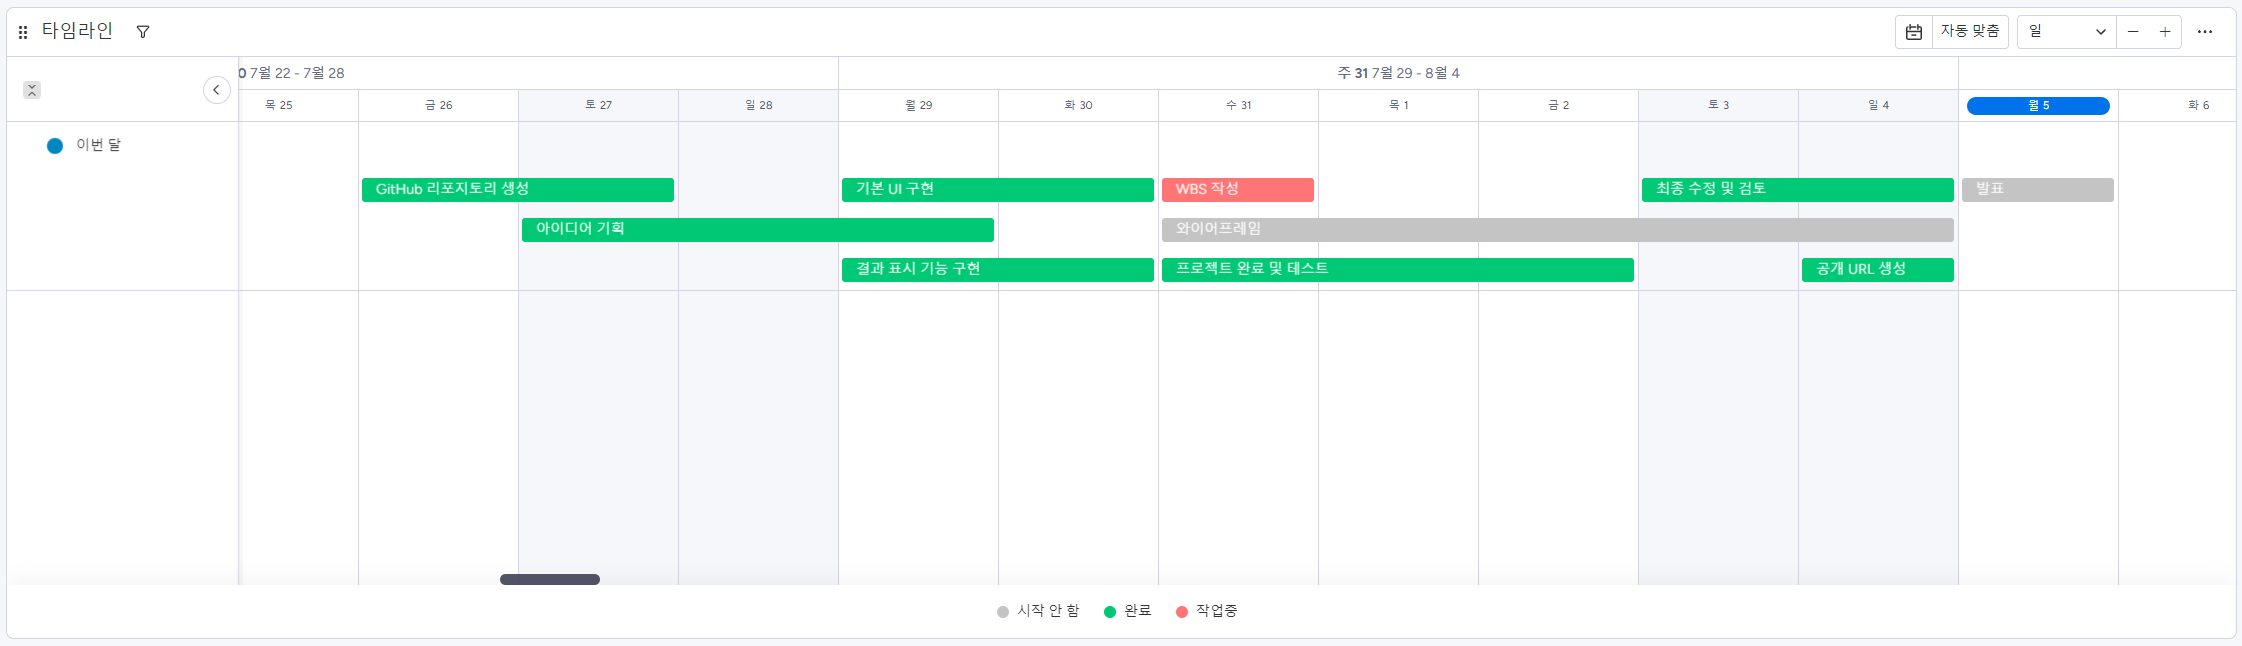
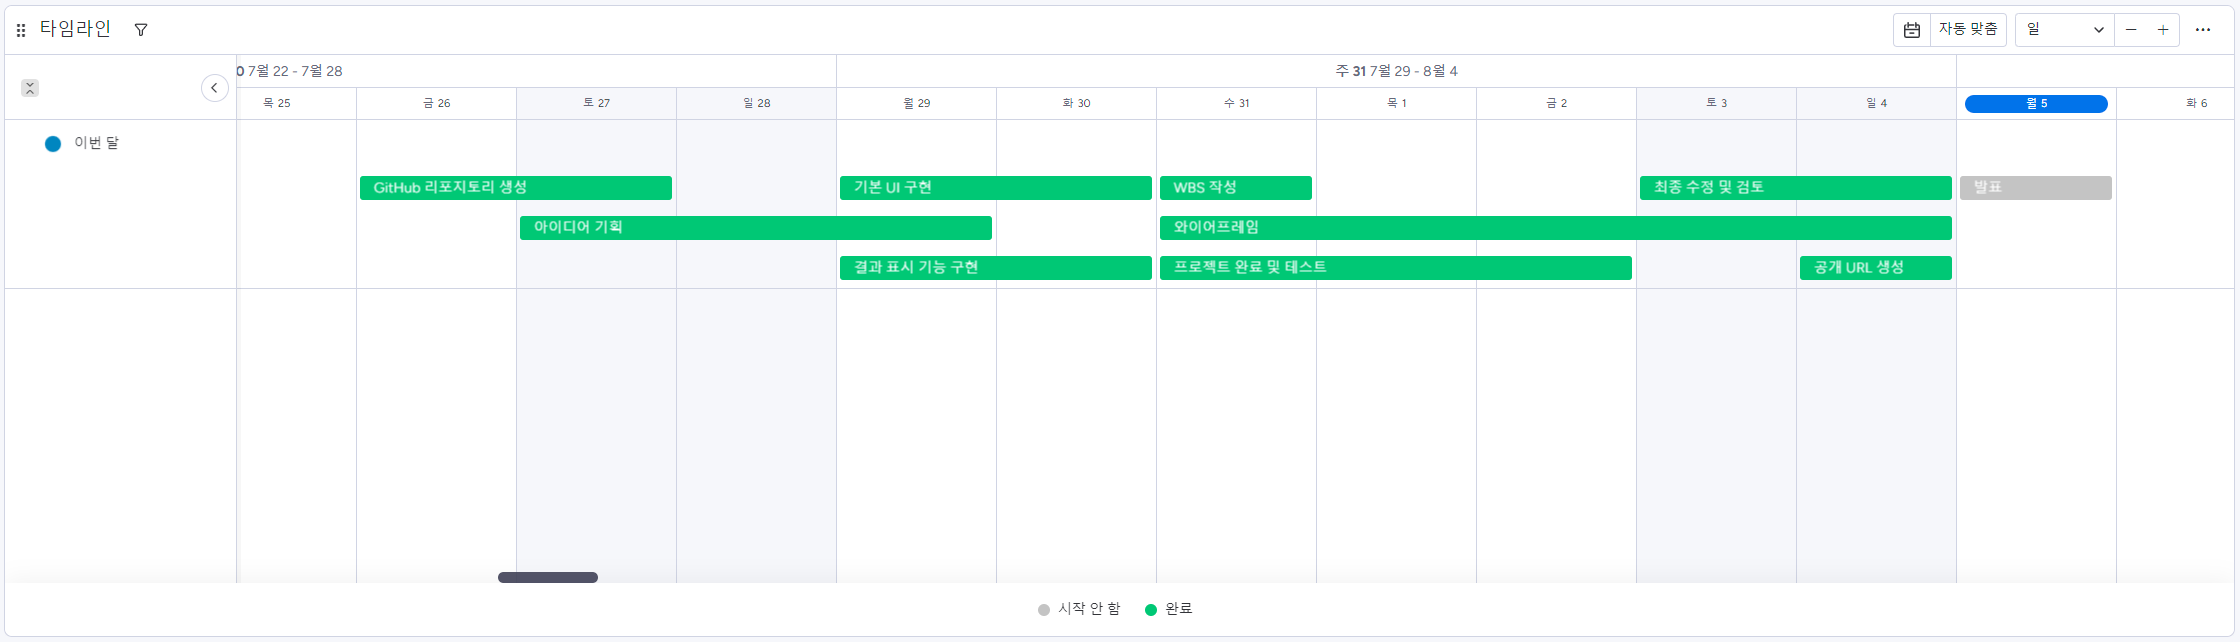
🚑 최종 수정

diff --git a/index.html b/index.html
@@ -15,8 +15,8 @@
       </div>
       <div id="recipe" class="tab-content active">
         <div class="recipe-box">
-          <h2>20분 레시피</h2>
           <img src="img/CatChef.png" alt="catchef" width="700px" />
+          <h2>20분 레시피</h2>
           <div class="chat-output" id="recipe-output"></div>
           <div class="chat-input-container">
             <textarea
@@ -39,8 +39,8 @@
       <div id="music" class="tab-content">
         <div class="music-settings">
           <div class="music-toggle">
-            <label>배경 음악</label>
             <img src="img/CatDJ.png" alt="CatDJ" width="700px" />
+            <label>배경 음악</label>
             <input type="radio" name="background-music" id="music-on" />
             <label for="music-on">음악 켜기</label>
             <input
@@ -76,8 +76,8 @@
         </div>
       </div>
       <div id="feedback" class="tab-content">
-        <label>Feedback</label>
         <img src="img/CatQ&A.png" alt="feedback" width="700px" />
+        <label>Feedback</label>
         <div class="feedback-form">
           <div class="rating">
             <label for="rating">별점 (1-5)</label>

diff --git a/README.md b/README.md
@@ -47,19 +47,8 @@
   3. 제한된 재료로 최적화된 요리 제공
   4. UI 개선 애니매이션 추가
 
-## 와이어프레임
 
-![와이어프레임](img/와이어프레임.PNG)
-
-## 시연
-
-* **Main HTML**
-![HTML](img/HTML%20영상.gif)
-
-* **APP**
-![APP](img/레시피%20생성%20영상.gif)
-
-## 수정
+## 와이어프레임 
 
 ![와이어프레임](img/004.PNG)
 
@@ -67,20 +56,28 @@
 
 ![WBS](img/005.PNG)
 
+## 시연
+
+* **APP**
+![APP](img/레시피%20생성%20영상.gif)
 
 ## 마자막
 
-  1. 1인 프로젝트 경험
-     * 아직까지 AI 도움 없이 프로젝트 불가능
-     * 디자인 파트 너무 어려움, 이미지 생성 AI 도움받아도 한계가 있음
-     * 내가 원하는 걸 AI에게 시키면, 결과가 제대로 안 나오고, 베이스부터 벽돌 쌓기처럼 하나하나씩 추가해야 결과물이 괜찮음
-  2. 프로젝트를 통해 다양한 업무용 도구를 실습하며 익히기
-     * Monday work management 사용해서 WBS 타임라인 작성, 비교적 쉽고, 진행 상태 색상 변경이 조금 불편함
-     * Miro 사용해서 와이어프레임 작성, 비교적 쉽고 템플릿이 다양해서 초보자도 쉽게 접근 가능함
-  3. 트러블 슈팅 대응 능력 확인하기
-     * AI 없이 불가..
-  4. ChatGPT 4.0, Claude 3.5 비교
-     * AI 툴 ChatGPT, Claude 3.5 모두 사용한 결과 "확실히 코드 작성 부분에서 Claude가 좋음, 이슈 해결 능력이 비교 불가할 정도로 좋음."
+1. 1인 프로젝트 경험
+    * 아직까지 AI 도움 없이 프로젝트가 불가능함
+    * 디자인 파트가 너무 어려움, 이미지 생성 AI의 도움을 받아도 한계가 있음
+
+2. 프로젝트를 통해 다양한 업무용 도구를 실습하며 익히기
+    * Monday work management를 사용하여 WBS 타임라인 작성, 비교적 쉽지만 진행 상태 색상 변경이 조금 불편함
+    * Miro를 사용하여 와이어프레임 작성, 비교적 쉽고 템플릿이 다양해서 초보자도 쉽게 접근 가능함
+
+3. 트러블 슈팅 대응 능력 확인하기
+    * AI 없이 불가함
+
+4. ChatGPT 4o, Claude 3.5 비교
+    * AI 툴 ChatGPT와 Claude 3.5를 모두 사용한 결과, "확실히 코드 작성 부분에서 Claude가 더 좋음, 이슈 해결 능력이 비교 불가할 정도로 뛰어남."
+
+혹시 추가로 수정할 부분이 있으면 알려주세요.
 
 [Main](https://nathanlyj.github.io/ChatGPT_item/)
 
